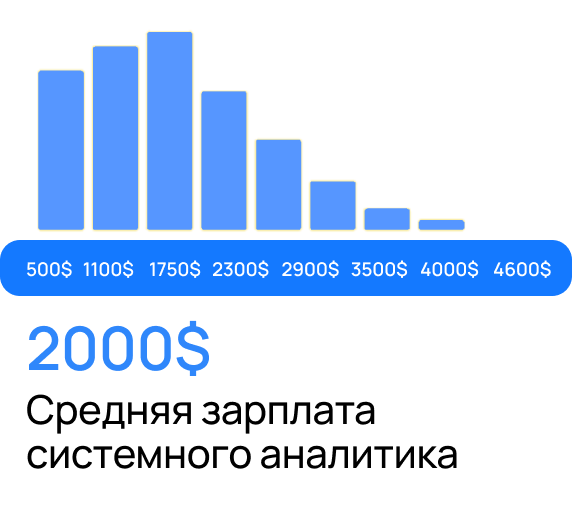
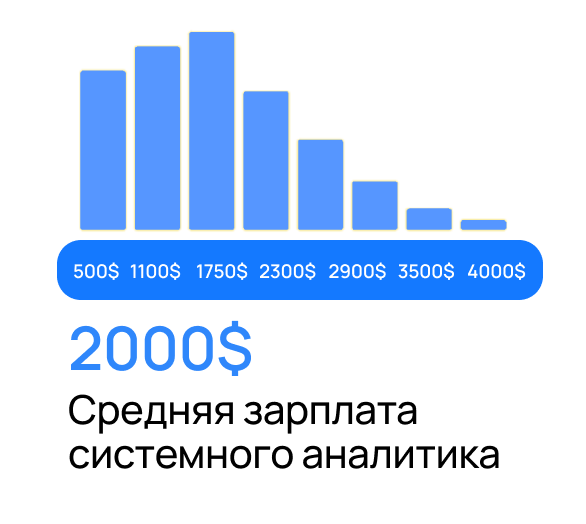
fixed chartCard in Hero

diff --git a/src/styles/Hero.module.css b/src/styles/Hero.module.css
@@ -281,7 +281,7 @@
     top: calc(38%);
     right: 8px;
     width: 150px;
-    padding: 0.625rem;
+    padding: 0rem;
     border-radius: 18px;
     z-index: 10;
   }
@@ -359,11 +359,11 @@
     bottom: 30%;
     right: -54px;
     width: 250px;
-    padding: 1rem;
+    padding: 0.2rem 0;
     border-radius: 30px;
   }
   .chartCard img {
-    max-width: 200px;
+    max-width: 230px;
   }
 }
 
@@ -371,13 +371,13 @@
 @media (min-width: 1536px) {
   .chartCard {
     bottom: 25%;
-    right: -80px;
-    width: 300px;
-    padding: .5rem;
+    right: -60px;
+    width: 280px;
+    padding:0;
     border-radius: 35px;
   }
   .chartCard img {
-    max-width: 250px;
+    max-width: 270px;
   }
 
 }
